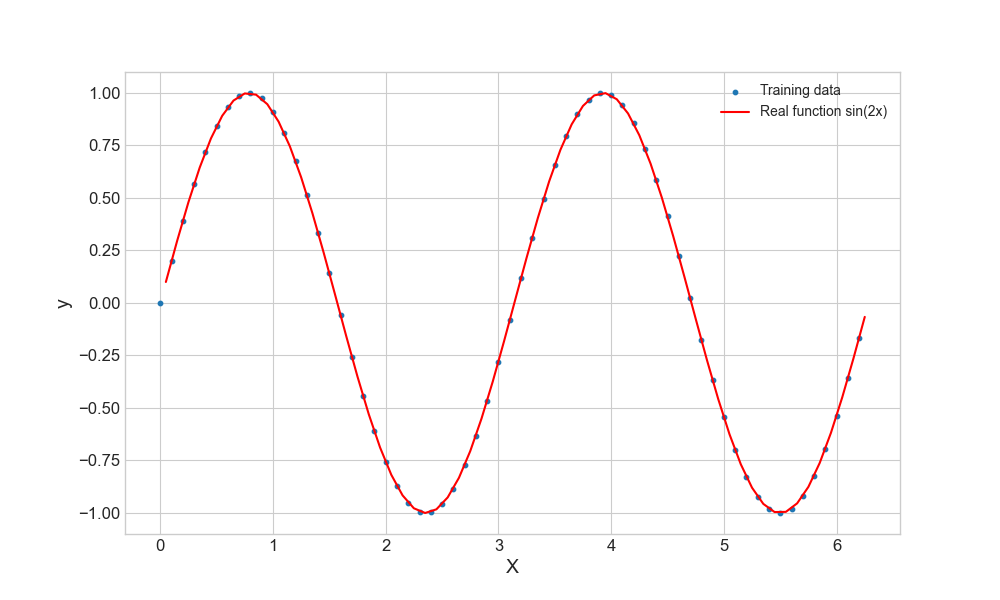
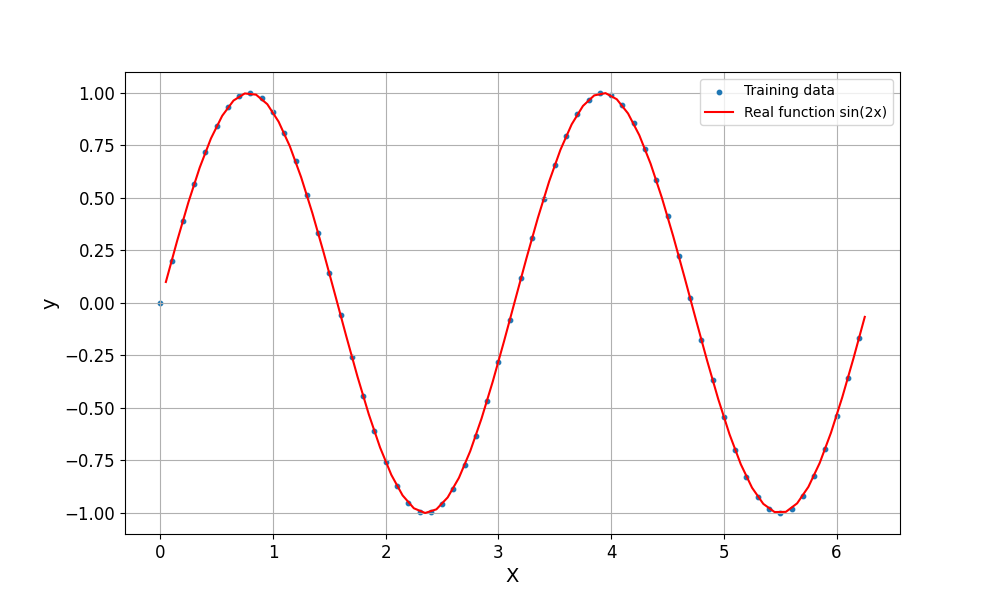
3.3 all with plots

diff --git a/Lab2/task_3_3.py b/Lab2/task_3_3.py
@@ -46,7 +46,7 @@ for n_hidden in n_hidden_vec:
     data_noisy_kernels[n_hidden]['model'] = model_vec
     data_noisy_kernels[n_hidden]['time'] = time_vec
 
-plot_RBF_kernel_comprision(data_noisy_kernels)
+# plot_RBF_kernel_comprision(data_noisy_kernels)
 # TODO find best combination for sin
 
 best_combo_noisy = None
@@ -102,7 +102,7 @@ print(f"Nodes: {best_combo_noisy['nodes']}, Sigma: {best_combo_noisy['sigma']:.2
 y_noisy_prediction = best_combo_noisy['model'].predict(X_test_noisy)
 
 
-plot_prediction(X_train_noisy, Y_train_noisy, X_test_noisy, y_noisy_prediction)
+# plot_prediction(X_train_noisy, Y_train_noisy, X_test_noisy, y_noisy_prediction)
 
 
 #!======================================================================
@@ -148,7 +148,7 @@ for n_hidden in n_hidden_vec:
     data_clean_kernels[n_hidden]['model'] = model_vec
     data_clean_kernels[n_hidden]['time'] = time_vec
 
-plot_RBF_kernel_comprision(data_clean_kernels)
+# plot_RBF_kernel_comprision(data_clean_kernels)
 # TODO find best combination for sin
 
 best_combo_clean = None
@@ -201,13 +201,13 @@ print(f"Nodes: {best_combo_clean['nodes']}, Sigma: {best_combo_clean['sigma']:.2
 y_clean_prediction = best_combo_clean['model'].predict(X_test_clean)
 
 
-plot_prediction(X_train_clean, Y_train_clean, X_test_clean, y_clean_prediction )
-
+# plot_prediction(X_train_clean, Y_train_clean, X_test_clean, y_clean_prediction )
+#
 #!======================================================================
 
 print("\n" + "="*50 + "\n")
 
-print('\n==== 1. Compare least square batch and online delta rule ====\n')
+print('\n==== 1. Compare noisy and clean data with CL method ====\n')
 
 #TODO CLEAN DATA WITH CL
 rbf_clean = rbf(n_hidden=best_combo_clean['nodes'], sigma=best_combo_clean['sigma'])
@@ -219,11 +219,13 @@ rbf_noisy = rbf(n_hidden=best_combo_noisy['nodes'], sigma=best_combo_noisy['sigm
 _, dead_units_noisy = rbf_noisy.choose_centers(X_train_noisy, 200, 0.1)
 train_mse_noisy, valid_mse_noisy = rbf_noisy.fit_delta_rule(X_train_noisy, Y_train_noisy, X_test_noisy, Y_test_noisy)
 
-print(f"Clean data --> Train MSE: {train_mse_clean[-1]:.5f}, Valid MSE: {valid_mse_clean[-1]:.5f}, Generalisation gap: {(train_mse_clean[-1]-valid_mse_clean[-1]):.5f}, Nr of dead units: {len(dead_units_clean)}")
-print(f"Noisy data --> Train MSE: {train_mse_noisy[-1]:.5f}, Valid MSE: {valid_mse_noisy[-1]:.5f}, Generalisation gap: {(train_mse_noisy[-1]-valid_mse_noisy[-1]):.5f}, Nr of dead units: {len(dead_units_noisy)}")
-
 y_clean_prediction = rbf_clean.predict(X_test_clean)
 y_noisy_prediction = rbf_noisy.predict(X_test_noisy)
+
+print(f"Clean data --> Train MSE: {train_mse_clean[-1]:.5f}, Valid MSE: {valid_mse_clean[-1]:.5f}, Gap: {(train_mse_clean[-1]-valid_mse_clean[-1]):.5f}, MAE: {np.mean(np.abs(Y_test_clean - y_clean_prediction))} Nr of dead units: {len(dead_units_clean)}")
+print(f"Noisy data --> Train MSE: {train_mse_noisy[-1]:.5f}, Valid MSE: {valid_mse_noisy[-1]:.5f}, Gap: {(train_mse_noisy[-1]-valid_mse_noisy[-1]):.5f}, MAE: {np.mean(np.abs(Y_test_clean - y_noisy_prediction))} Nr of dead units: {len(dead_units_noisy)}")
+
+
 
 
 plt.figure(figsize=(10, 6))
@@ -237,8 +239,8 @@ plt.xticks(fontsize=12)
 plt.yticks(fontsize=12)
 plt.legend(fontsize=10, loc='upper right')
 plt.grid(True)
-# save_path = os.path.join('Lab2', 'plots', f'Prediction_{fun_name}{add_info}.png')
-# plt.savefig(save_path)
+save_path = os.path.join('Lab2', 'plots', f'Compere_prediction_CL_noisy_clean_sin2x.png')
+plt.savefig(save_path)
 plt.show()
 
  
@@ -248,7 +250,7 @@ print("\n" + "="*50 + "\n")
 
 print('\n==== 2. Dead units prevention ====\n')
 
-X_train_du, Y_train_du, X_test_du, Y_test_du = create_clustered_data_for_dead_units()
+# X_train_du, Y_train_du, X_test_du, Y_test_du = create_clustered_data_for_dead_units()
 
 rbf_soch = rbf(n_hidden=35, sigma=0.5)
 _, dead_units_soch = rbf_soch.choose_centers_sochastic(X_train_noisy, 200, 0.1)
@@ -258,15 +260,15 @@ rbf_wta = rbf(n_hidden=35, sigma=0.5)
 _, dead_units_wta = rbf_wta.choose_centers(X_train_noisy, 200, 0.1)
 train_mse_wta, valid_mse_wta = rbf_wta.fit_delta_rule(X_train_noisy, Y_train_noisy, X_test_noisy, Y_test_noisy)
 
-print(f"Sochastic centers --> Train MSE: {train_mse_soch[-1]:.5f}, Valid MSE: {valid_mse_soch[-1]:.5f}, Generalisation gap: {(train_mse_soch[-1]-valid_mse_soch[-1]):.5f}, Nr of dead units: {len(dead_units_soch)}")
-print(f"WTA centers --> Train MSE: {train_mse_wta[-1]:.5f}, Valid MSE: {valid_mse_wta[-1]:.5f}, Generalisation gap: {(train_mse_wta[-1]-valid_mse_wta[-1]):.5f}, Nr of dead units: {len(dead_units_wta)}")
+print(f"Sochastic centers noisy--> Train MSE: {train_mse_soch[-1]:.5f}, Valid MSE: {valid_mse_soch[-1]:.5f}, Generalisation gap: {(train_mse_soch[-1]-valid_mse_soch[-1]):.5f}, Nr of dead units: {len(dead_units_soch)}")
+print(f"WTA centers noisy--> Train MSE: {train_mse_wta[-1]:.5f}, Valid MSE: {valid_mse_wta[-1]:.5f}, Generalisation gap: {(train_mse_wta[-1]-valid_mse_wta[-1]):.5f}, Nr of dead units: {len(dead_units_wta)}")
 
 y_pred_soch = rbf_soch.predict(X_test_noisy)
 
 y_pred_wta = rbf_wta.predict(X_test_noisy)
 
 plt.figure(figsize=(10, 6))
-plt.plot(X_test_noisy, Y_test_noisy, color='blue', linestyle = 'dashed', label=f'Clean data')
+plt.plot(X_test_clean, Y_test_clean, color='blue', linestyle = 'dashed', label=f'Clean data')
 plt.plot(X_test_noisy, y_pred_wta, color='red', label=f'WTA prediction')
 plt.plot(X_test_noisy, y_pred_soch, color='green', label=f'Sochastic prediction')
 
@@ -276,8 +278,39 @@ plt.xticks(fontsize=12)
 plt.yticks(fontsize=12)
 plt.legend(fontsize=10, loc='upper right')
 plt.grid(True)
-# save_path = os.path.join('Lab2', 'plots', f'Prediction_{fun_name}{add_info}.png')
-# plt.savefig(save_path)
+save_path = os.path.join('Lab2', 'plots', f'Prediction_sochastic_normal_CL.png')
+plt.savefig(save_path)
 plt.show()
 
+#!==============================================
+
+rbf_soch = rbf(n_hidden=50, sigma=0.3)
+_, dead_units_soch = rbf_soch.choose_centers_sochastic(X_train_clean, 200, 0.1)
+train_mse_soch, valid_mse_soch = rbf_soch.fit_delta_rule(X_train_clean, Y_train_clean, X_test_clean, Y_test_clean)
+
+rbf_wta = rbf(n_hidden=50, sigma=0.3)
+_, dead_units_wta = rbf_wta.choose_centers(X_train_clean, 200, 0.1)
+train_mse_wta, valid_mse_wta = rbf_wta.fit_delta_rule(X_train_clean, Y_train_clean, X_test_clean, Y_test_clean)
+
+print(f"Sochastic centers clean--> Train MSE: {train_mse_soch[-1]:.5f}, Valid MSE: {valid_mse_soch[-1]:.5f}, Generalisation gap: {(train_mse_soch[-1]-valid_mse_soch[-1]):.5f}, Nr of dead units: {len(dead_units_soch)}")
+print(f"WTA centers clean --> Train MSE: {train_mse_wta[-1]:.5f}, Valid MSE: {valid_mse_wta[-1]:.5f}, Generalisation gap: {(train_mse_wta[-1]-valid_mse_wta[-1]):.5f}, Nr of dead units: {len(dead_units_wta)}")
+
+y_pred_soch = rbf_soch.predict(X_test_clean)
+
+y_pred_wta = rbf_wta.predict(X_test_clean)
+
+plt.figure(figsize=(10, 6))
+plt.plot(X_test_clean, Y_test_clean, color='blue', linestyle = 'dashed', label=f'Clean data')
+plt.plot(X_test_clean, y_pred_wta, color='red', label=f'WTA prediction')
+plt.plot(X_test_clean, y_pred_soch, color='green', label=f'Sochastic prediction')
+
+plt.xlabel('X', fontsize=14)
+plt.ylabel('y', fontsize=14)
+plt.xticks(fontsize=12)
+plt.yticks(fontsize=12)
+plt.legend(fontsize=10, loc='upper right')
+plt.grid(True)
+save_path = os.path.join('Lab2', 'plots', f'Prediction_sochastic_normal_CL_clean.png')
+plt.savefig(save_path)
+plt.show()
 

diff --git a/Lab2/task_3_3_balistic.py b/Lab2/task_3_3_balistic.py
@@ -44,20 +44,25 @@ def plot_data(X, Y, title="Ballistic Data"):
     # Plot input data (angle vs velocity)
     plt.subplot(1, 2, 1)
     plt.scatter(X[:, 0], X[:, 1], alpha=0.7)
-    plt.title(f"{title} - Input Data")
-    plt.xlabel("Angle")
-    plt.ylabel("Velocity")
+    plt.title(f"{title} - Input Data", fontsize=14)
+    plt.xticks(fontsize=12)
+    plt.yticks(fontsize=12)
+    plt.xlabel("Angle", fontsize=14)
+    plt.ylabel("Velocity", fontsize=14)
     plt.grid(True)
     
     # Plot output data (distance vs height)
     plt.subplot(1, 2, 2)
     plt.scatter(Y[:, 0], Y[:, 1], alpha=0.7, color='orange')
-    plt.title(f"{title} - Output Data")
-    plt.xlabel("Distance")
-    plt.ylabel("Height")
+    plt.title(f"{title} - Output Data", fontsize=14)
+    plt.xlabel("Distance", fontsize=14)
+    plt.ylabel("Height", fontsize=14)
+    plt.xticks(fontsize=12)
+    plt.yticks(fontsize=12)
     plt.grid(True)
-    
+    plt.legend(fontsize=10)
     plt.tight_layout()
+    # plt.savefig(os.path.join('Lab2', 'plots', ''))
     plt.show()
 
 def main():
@@ -71,8 +76,8 @@ def main():
         print("\nData loaded and ready for RBF network training and testing.")
     plot_data(X_train, Y_train, title="Training Data (ballist.dat)")
 
-    n_hidden_vec = [20, 25, 30, 40, 45, 50]
-    sigma_vec= [0.05, 0.1, 0.15, 0.17]
+    n_hidden_vec = [15, 20, 25, 30, 35, 40, 45, 50]
+    sigma_vec= [0.05, 0.1, 0.15]
     epochs = 100
     # n_hidden = 50
     # sigma = 0.1
@@ -83,7 +88,7 @@ def main():
         for sigma in sigma_vec:
 
             rbf_balistic = rbf(n_hidden, sigma)
-            centers, dead_units = rbf_balistic.choose_centers_sochastic(X_train, 300, 0.2)
+            centers, dead_units = rbf_balistic.choose_centers(X_train, 1000, 0.3, 0.95)
             train_mse, valid_mse = rbf_balistic.fit_delta_rule(X_train, Y_train, X_test, Y_test, epochs=epochs, learning_rate=0.05)
             y_pred = rbf_balistic.predict(X_test)
 
@@ -150,38 +155,62 @@ def main():
     plt.figure(figsize=(12, 6))
     plt.plot(list(range(1, epochs+1)), best_combo['train_mse'], color = 'green', label = 'Traning MSE')
     plt.plot(list(range(1, epochs+1)), best_combo['valid_mse'], color = 'red', label = 'Valid MSE')
-    plt.xlabel("Epochs")
-    plt.ylabel("MSE value")
+    plt.xlabel("Epochs", fontsize=14)
+    plt.ylabel("MSE value", fontsize=14)
+    plt.xticks(fontsize=12)
+    plt.yticks(fontsize=12)
+    plt.legend(fontsize=10, loc='upper right')
     plt.grid(True)
     plt.tight_layout()
+    plt.savefig(os.path.join('Lab2', 'plots', 'Balistic_curve.png'))
     plt.show()
 
 
 
-    plt.figure(figsize=(12, 6))
-
-    ax = plt.subplot(1, 2, 1)
+    plt.figure(figsize=(27, 9))
+    ax = plt.subplot(1, 3, 1)
     for center in best_combo['centers']:
         circle = Circle(center, radius=best_combo['sigma'], color='lime', alpha=0.2, fill=True)
         ax.add_patch(circle)
-    plt.scatter(X_test[:, 0], X_test[:, 1], alpha=0.7)
+    plt.scatter(X_train[:, 0], X_train[:, 1], alpha=0.7)
     plt.scatter(best_combo['centers'][:, 0], best_combo['centers'][:, 1], c='lime', marker='^', s=10, edgecolors='black', label='Centra RBF')
     
-    plt.title(f"Testing - Input Data")
-    plt.xlabel("Angle")
-    plt.ylabel("Velocity")
+    plt.title(f"Trening - Input Data", fontsize=14)
+    plt.xlabel("Angle", fontsize=14)
+    plt.ylabel("Velocity", fontsize=14)
+    plt.xticks(fontsize=12)
+    plt.yticks(fontsize=12)
+    plt.legend(fontsize=10, loc='upper right')
+    plt.grid(True)
+    
+    ax = plt.subplot(1, 3, 2)
+    for center in best_combo['centers']:
+        circle = Circle(center, radius=best_combo['sigma'], color='lime', alpha=0.2, fill=True)
+        ax.add_patch(circle)
+    plt.scatter(X_test[:, 0], X_test[:, 1], alpha=0.7, label = 'Training data')
+    plt.scatter(best_combo['centers'][:, 0], best_combo['centers'][:, 1], c='lime', marker='^', s=10, edgecolors='black', label='RBF centers')
+    
+    plt.title(f"Testing - Input Data", fontsize=14)
+    plt.xlabel("Angle", fontsize=14)
+    plt.ylabel("Velocity", fontsize=14)
+    plt.xticks(fontsize=12)
+    plt.yticks(fontsize=12)
+    plt.legend(fontsize=10, loc='upper right')
     plt.grid(True)
     
     # Plot output data (distance vs height)
-    plt.subplot(1, 2, 2)
+    plt.subplot(1, 3, 3)
     plt.scatter(Y_test[:, 0], Y_test[:, 1], alpha=0.7, color='orange')
     plt.scatter(best_combo['prediction'][:, 0], best_combo['prediction'][:, 1], alpha=0.7, color='blue')
-    plt.title(f"Prediction - Output Data")
-    plt.xlabel("Distance")
-    plt.ylabel("Height")
+    plt.title(f"Prediction - Output Data", fontsize=14)
+    plt.xlabel("Distance", fontsize=14)
+    plt.ylabel("Height", fontsize=14)
+    plt.xticks(fontsize=12)
+    plt.yticks(fontsize=12)
+    plt.legend(fontsize=10, loc='upper right')
     plt.grid(True)
-    
     plt.tight_layout()
+    plt.savefig(os.path.join('Lab2', 'plots', 'Balistic_data_best_model.png'))
     plt.show()
 
 

diff --git a/Lab2/Utils/RBF.py b/Lab2/Utils/RBF.py
@@ -26,13 +26,13 @@ class RBF_NN:
         """
         Compute Radial-basis function networks
         """
-        
+
         # Ensure inputs are 2D
-        if X.ndim == 1:
-            X = X.reshape(-1, 1)
+        # if X.ndim == 1:
+        #     X = X.reshape(-1, 1)
             
-        if centers.ndim == 1:
-            centers = centers.reshape(-1, 1)
+        # if centers.ndim == 1:
+        #     centers = centers.reshape(-1, 1)
         
         distances = cdist(X, centers, metric='euclidean')
 
@@ -43,7 +43,7 @@ class RBF_NN:
 
     
     # First Stage.( Unsupervised Learning  ) -> Centers are chosen with unsupervised methods
-    def choose_centers(self, X, n_iterations = 1000, eta = 0.1):
+    def choose_centers(self, X, n_iterations = 1000, eta = 0.1, lr_adp = 0.99):
         """
         Unsupervised choosing of centers. 
         Returns only centers coordinates
@@ -63,12 +63,12 @@ class RBF_NN:
                 win_id = np.argmin(dist_vec)
                 win_counts[win_id] += 1
                 centers[win_id] += eta * (x_i.squeeze() - centers[win_id].squeeze())
-            eta *=0.99
+            eta *= lr_adp
         self.centers = centers
         dead_units_indices = np.where(win_counts == 0)[0]
         return centers, dead_units_indices
     
-    def choose_centers_sochastic(self, X, n_iterations=1000, eta=0.1):
+    def choose_centers_sochastic(self, X, n_iterations=1000, eta=0.1, lr_adp = 0.99):
         """
         Unsupervised choosing of centers with a probabilistic update rule
         to prevent dead units.
@@ -99,7 +99,7 @@ class RBF_NN:
                 win_counts[win_id] += 1
                 centers[win_id] += eta * (x_i.squeeze() - centers[win_id].squeeze())
 
-            eta *= 0.99
+            eta *= lr_adp
         
         self.centers = centers
         dead_units_indices = np.where(win_counts == 0)[0]
